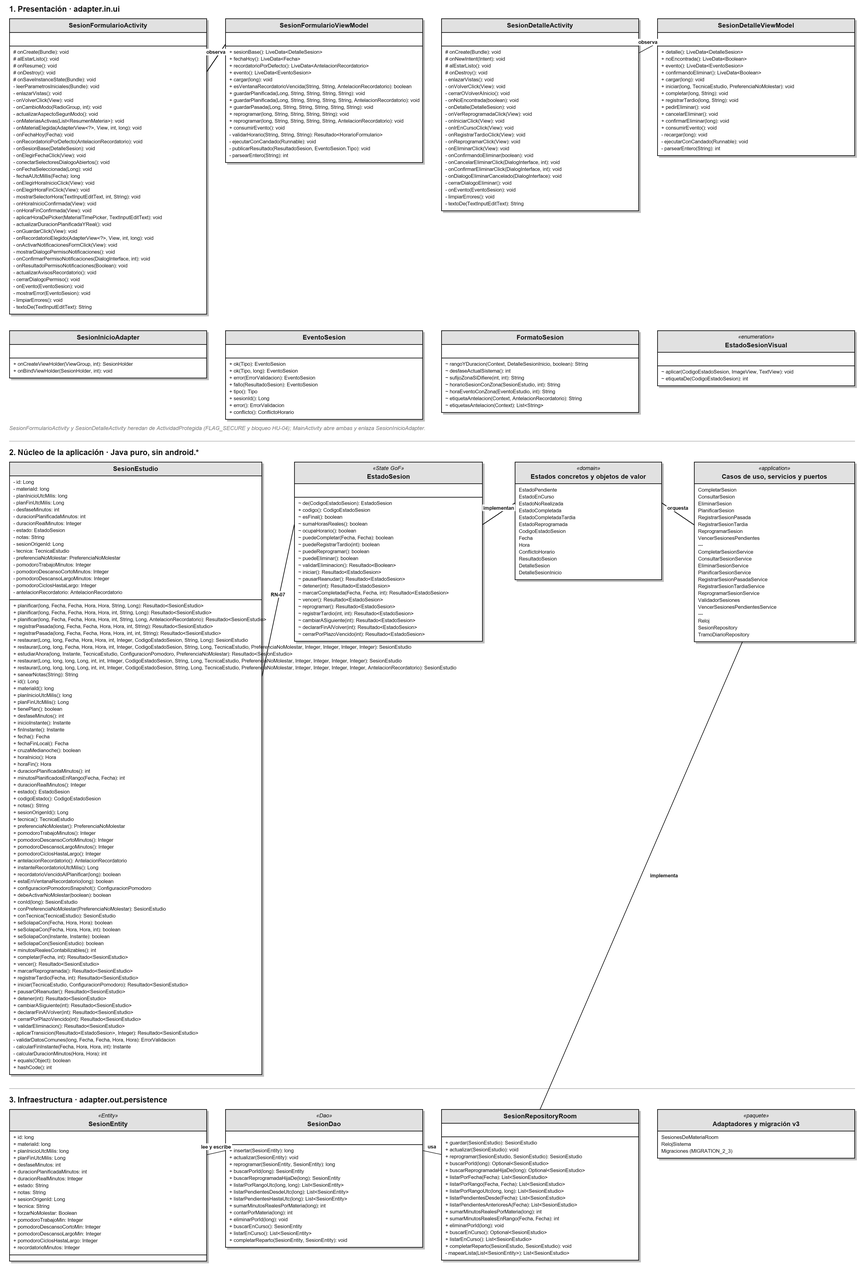
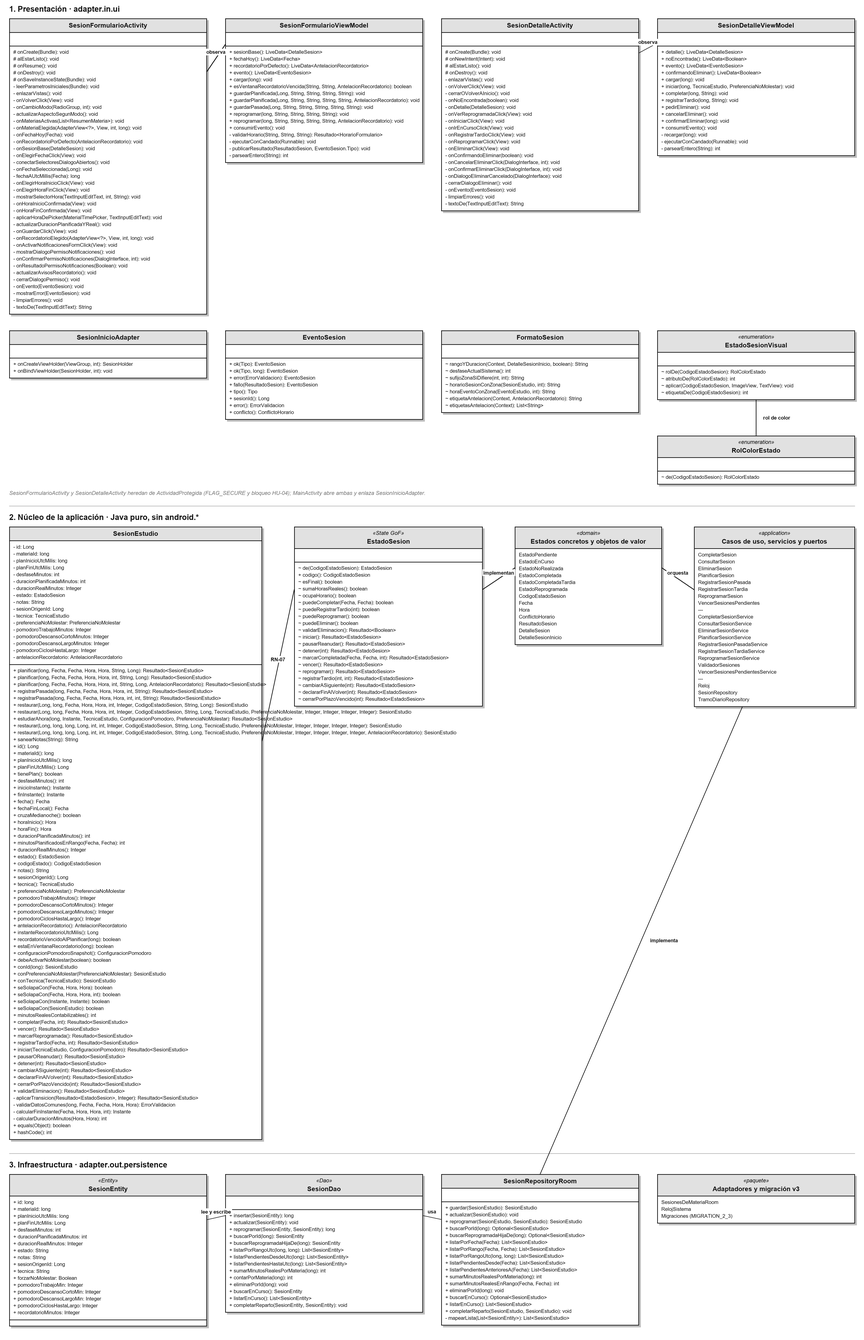
docs: línea gráfica en el capítulo 4, diagramas de clases y bitácora
Subsección «Línea gráfica» con colores, tipografía, reglas y la revisión en el
emulador; diagramas regenerados con AcentoMateria, ColorMateria y
RolColorEstado (lienzos ampliados, el de configuración salía cortado); bitácora
de las sesiones 17 a 20 e informe de ux-check.

diff --git a/docs/build/diagramas_clases.py b/docs/build/diagramas_clases.py
@@ -44,7 +44,9 @@ SEGURIDAD_CONFIG = ["DisponibilidadBloqueoBiometrico"]
 # add-gestion-materias
 PRESENTACION_MATERIAS = ["DestinoPrincipal", "MateriasActivity", "MateriaFormularioActivity", "ListaMateriasViewModel",
                          "MateriaFormularioViewModel", "MateriasAdapter", "FilaMateria", "EventoMateria",
-                         "MensajesDeError", "SelectorColorDialogo", "ColorHex", "GrupoBotones"]
+                         "MensajesDeError", "SelectorColorDialogo", "ColorHex", "GrupoBotones",
+                         # aplicar-linea-grafica-indigo (HU-03): color de materia como acento
+                         "ColorMateria", "AcentoMateria"]
 ENTRADA_MATERIAS = ["ArchivarMateria", "ConsultarMateria", "DesarchivarMateria", "EditarMateria", "EliminarMateria",
                     "ListarMaterias", "RegistrarMateria"]
 SERVICIOS_MATERIAS = ["ArchivarMateriaService", "ConsultarMateriaService", "DesarchivarMateriaService",
@@ -57,7 +59,7 @@ PERSISTENCIA_MATERIAS = ["MateriaDao", "MateriaEntity", "MateriaRepositoryRoom",
 # add-sesiones-estudio
 PRESENTACION_SESIONES = ["EstadoSesionVisual", "EventoSesion", "FormatoSesion", "SesionDetalleActivity",
                          "SesionDetalleViewModel", "SesionFormularioActivity", "SesionFormularioViewModel",
-                         "SesionInicioAdapter"]
+                         "SesionInicioAdapter", "RolColorEstado"]
 ENTRADA_SESIONES = ["CompletarSesion", "ConsultarSesion", "EliminarSesion", "PlanificarSesion",
                     "RegistrarSesionPasada", "RegistrarSesionTardia", "ReprogramarSesion", "VencerSesionesPendientes"]
 SERVICIOS_SESIONES = ["CompletarSesionService", "ConsultarSesionService", "EliminarSesionService",
@@ -158,7 +160,7 @@ def alto(cajas):
 # ---------------------------------------------------------------- clases de add-configuracion-inicial
 def clases_configuracion():
     """Presentación con los métodos de cada clase (onCreate y listeners), núcleo e infraestructura por paquete."""
-    W, H = 3240, 3000
+    W, H = 3240, 4200
     img = Image.new("RGB", (W, H), dg.WHITE)
     d = ImageDraw.Draw(img)
     xs, ancho = [40, 840, 1640, 2440], 760
@@ -225,7 +227,7 @@ def clases_configuracion():
 # ---------------------------------------------------------------- clases de add-gestion-materias
 def clases_materias():
     """Clases de la épica E2: presentación con sus métodos, dominio con campos y métodos, puertos y adaptadores."""
-    W, H = 3240, 3400
+    W, H = 3240, 5600
     img = Image.new("RGB", (W, H), dg.WHITE)
     d = ImageDraw.Draw(img)
     xs, ancho = [40, 840, 1640, 2440], 760
@@ -245,17 +247,23 @@ def clases_materias():
              caja_con_metodos("SelectorColorDialogo", xs[1], y3, ancho),
              caja_con_metodos("ColorHex", xs[2], y3, ancho),
              caja_con_metodos("GrupoBotones", xs[3], y3, ancho)]
-    for c in fila1 + fila2 + fila3:
+    y4f = y3 + alto(fila3) + 70
+    fila4 = [caja_con_metodos("AcentoMateria", xs[0], y4f, ancho),
+             caja_con_metodos("ColorMateria", xs[1], y4f, ancho)]
+    for c in fila1 + fila2 + fila3 + fila4:
         c.draw(d)
     dg.assoc(d, fila1[0].right(0.2), fila1[1].left(0.2), "abre", None, None)
     dg.assoc(d, fila1[2].right(0.2), fila1[3].left(0.2), "comparte la fábrica", None, None)
-    ynota = y3 + alto(fila3) + 24
+    dg.assoc(d, fila4[0].right(0.3), fila4[1].left(0.3), "ajusta el color con", None, None)
+    ynota = y4f + alto(fila4) + 24
     d.text((xs[0], ynota), "MateriasActivity y MateriaFormularioActivity extienden ActividadProtegida; cada una pide su",
            font=dg.font(24, italic=True), fill=dg.GRAY)
     d.text((xs[0], ynota + 36), "ViewModel a FabricaViewModels. Los ViewModel usan los casos de uso (application.port.in). La barra de navegación se enlaza con DestinoPrincipal.",
            font=dg.font(24, italic=True), fill=dg.GRAY)
+    d.text((xs[0], ynota + 72), "AcentoMateria pinta el color de materia solo como barra, punto o chip (HU-03); ColorMateria es Java puro y lo ajusta a ≥ 3:1 contra la superficie del tema.",
+           font=dg.font(24, italic=True), fill=dg.GRAY)
 
-    y4 = ynota + 130
+    y4 = ynota + 166
     d.line([40, y4 - 30, W - 40, y4 - 30], fill=dg.MID, width=3)
     d.text((40, y4), "2. Núcleo de la aplicación · Java puro, sin android.*", font=dg.font(34, True), fill=dg.BLACK)
     y4 += 60
@@ -290,7 +298,7 @@ def clases_materias():
 
 def clases_sesiones():
     """Clases de la épica E3: sesiones de estudio, patrón State GoF en dominio y persistencia Room v3."""
-    W, H = 3760, 5600
+    W, H = 3760, 6400
     img = Image.new("RGB", (W, H), dg.WHITE)
     d = ImageDraw.Draw(img)
     d.text((40, 20), "1. Presentación · adapter.in.ui", font=dg.font(34, True), fill=dg.BLACK)
@@ -305,11 +313,15 @@ def clases_sesiones():
              caja_con_metodos("EventoSesion", xs1[1], y2, w1),
              caja_con_metodos("FormatoSesion", xs1[2], y2, w1),
              caja_con_metodos("EstadoSesionVisual", xs1[3], y2, w1, "enumeration")]
-    for c in fila1 + fila2:
+    y3s = y2 + alto(fila2) + 70
+    fila3s = [caja_con_metodos("RolColorEstado", xs1[3], y3s, w1, "enumeration")]
+    for c in fila1 + fila2 + fila3s:
         c.draw(d)
     dg.assoc(d, fila1[0].right(0.18), fila1[1].left(0.18), "observa", None, None)
     dg.assoc(d, fila1[2].right(0.18), fila1[3].left(0.18), "observa", None, None)
-    ynota = y2 + alto(fila2) + 24
+    dg.assoc(d, fila2[3].bottom(0.5), (fila3s[0].x + fila3s[0].w * 0.5, fila3s[0].y), "rol de color", None, None,
+             name_off=(90, 0))
+    ynota = y3s + alto(fila3s) + 24
     d.text((40, ynota),
            "SesionFormularioActivity y SesionDetalleActivity heredan de ActividadProtegida (FLAG_SECURE y bloqueo HU-04); MainActivity abre ambas y enlaza SesionInicioAdapter.",
            font=dg.font(24, italic=True), fill=dg.GRAY)

diff --git a/docs/auditoria-ia/bitacora.md b/docs/auditoria-ia/bitacora.md
@@ -367,3 +367,54 @@ Decisiones posibles: Aceptado · Modificado · Rechazado · Decidido por el huma
 | 131 | Bloque 6: diagramas, capítulo 4, compilación integral y verificación final | Actualizó `diagramas_clases.py` (`clases_recordatorios()`, `DESCRIPCIONES` v8), `diagramas.py` (dominio conceptual y `W10`), `cotejo_clases.py` y `04-diseno-del-software.md`; ejecutó compilación Debug/Release, unitarias, `lintDebug`, suite instrumentada completa en `SP_API37` y validación OpenSpec | **Pendiente** de revisión humana | Trazabilidad 1:1 código–Room v8–diagramas–documento antes de archivar `add-recordatorios` | `assembleDebug assembleRelease`, `testDebugUnitTest` (`77` suites / `313` unitarias), `lintDebug`, `connectedDebugAndroidTest` (`107/107` en `SP_API37`), `openspec validate --strict`, `cotejo_clases.py` (`271` clases) y `revisar.py` en verde |
 
 **Errores o riesgos registrados en esta sesión:** (1) `NotificadorRecordatoriosInstrumentalTest` falló inicialmente por leer `getActiveNotifications()` inmediatamente después de `cancel()` mientras `NotificationManagerService` procesaba de forma asíncrona vía Binder, resuelto esperando de forma acotada la sincronización del servicio; (2) `SesionRepositoryRoomTest` y `PersistenciaInstrumentadaTest` conservaban aserciones legadas de versión Room `7` y prohibición previa de `SCHEDULE_EXACT_ALARM`, ajustadas a Room `v8` y a la regla `PO-3` (permitir `SCHEDULE_EXACT_ALARM` y prohibir `INTERNET` y `USE_EXACT_ALARM`); (3) `ReceptorAvisosSesion.onReceive()` protege `pending != null` ante `goAsync()` nulo en invocaciones directas desde pruebas instrumentadas; (4) en el diagrama `diagrama_clases_recordatorios.png` inicial, la firma larga de `NotificadorSesion` superaba el ancho de caja y se amplió la columna al regenerar y re-cotejar con `cotejo_clases.py`; (5) en pruebas Espresso que usan `MaterialAutoCompleteTextView` de antelación cuando `POST_NOTIFICATIONS` no está concedido aún, el flujo contempla descartar el diálogo explicativo no bloqueante con «Ahora no». **Pendiente de revisión humana:** probar manualmente en emulador real la llegada de alarmas/notificaciones y el salto a ajustes del sistema (`POST_NOTIFICATIONS` y `SCHEDULE_EXACT_ALARM`), revisar la bitácora y el Word generado antes de archivar con `/openspec-archive-change add-recordatorios` y confirmar `git commit`.
+
+## Sesión 17 — 2026-11-19 · Claude Code (Sonnet 5.5) (planificación del change `aplicar-linea-grafica-indigo`)
+
+**Entradas del estudiante:** aplicar la línea gráfica «Índigo Digital» (lienzo de Claude Design) a toda la app, solo móvil; instalar `ux-kit`; correr `/opsx:explore`, `/opsx:propose`, `ux-discover` y `ux-plan-review`; revisar el plan con `/egm:egm-review` y aplicar el informe con `/openspec-update-change`. Esta sesión **no modificó código de la app**.
+
+| # | Solicitud / tema | Qué hizo la IA | Decisión humana | Justificación | Verificación |
+|---|---|---|---|---|---|
+| 132 | Leer el lienzo de Claude Design y explorar qué layouts y estilos tocar | Leyó las 3 guías y los artboards, y mapeó recursos, estilos explícitos y Java con colores del repositorio (sin escribir código) | Aceptado | El hallazgo clave fue que casi todo vive en `res/values*`, porque los layouts ya usan atributos de tema | Contraste de la guía recalculado con `contrast.mjs` (7,9:1 y 7,56:1); marcar para verificación manual cualquier cifra de la guía |
+| 133 | Instalar `ux-kit` y correr `ux-init` y `ux-discover` | Instaló 6 skills, creó `.ux/` y cargó Índigo Digital en `tokens.json`, `brand.md`, `users.md` y `references.md` | Modificado: botones de 48 dp (la guía decía 52) y `density: comfortable` | Preferencia del Product Owner; 48 dp es el mínimo táctil y coincide con la densidad | `node .ux/scripts/tokens.mjs` (43 pares con `danger` corregido); los datos de usuarios no documentados quedaron como `{{to confirm}}` |
+| 134 | `/opsx:propose` y `ux-plan-review` | Creó proposal, spec delta de `perfil-ajustes` (HU-03), design y tasks; la revisión UX dio 8 hallazgos | Aceptado: los 8, la fuente Plus Jakarta Sans y el bloque horario del calendario dentro del change | No se inventó HU: se modificó HU-03 | `openspec validate --strict` |
+| 135 | `/egm:egm-review` y `/openspec-update-change` con el informe consolidado | Verificó las acusaciones en el código y reescribió design, tasks, proposal, spec y tokens según 5 decisiones del Product Owner (`PO-1`–`PO-5`) | Aceptado el paquete recomendado, con una corrección: en Inicio el botón relleno es «Nueva sesión» y «Estudiar ahora» es el FAB tonal | El artboard y el código ya coincidían; la recomendación inicial estaba al revés | `openspec validate --strict`, enlaces de `design.md` resueltos, `tokens.mjs` sin fallos |
+
+**Errores o riesgos registrados en esta sesión:** (1) la IA propuso en `design.md` la acción primaria de Inicio, de Sesión en curso y de W13 sin haber leído los layouts ni los artboards completos, y estaba al revés en Inicio; (2) validó el contraste de `danger` claro solo contra `surface` (4,83:1) y no contra `bg` (4,43:1) ni `surface-variant` (4,08:1), por lo que `#DC2626` fallaba AA; (3) coló en un change «solo visual» comportamiento nuevo (recientes y buscador del selector, estados de carga y de error, un botón «Empezar»), que se retiró tras la revisión EGM; (4) citó un token inexistente (`indigo_primary`) y propuso iconos para los eventos de `item_evento_estudio.xml`, que no tiene iconos (corregido); (5) un script con heredoc falló a medias y duplicó la entrada 0.2.1 del CHANGELOG de `.ux/standard/` (corregido); (6) el anillo del cronómetro no existe hoy en `activity_sesion_en_curso.xml` y se había descrito como si existiera. **Pendiente de verificación manual:** todas las cifras de contraste que propuso la IA, la licencia OFL real de Plus Jakarta Sans antes de añadir las fuentes, `density: comfortable` en uso real, y los `git commit` (los archivos de `.ux/`, `.claude/skills/`, `.agents/skills/` y `openspec/changes/aplicar-linea-grafica-indigo/` están sin commit).
+
+
+**Línea base antes de `/opsx:apply` (2026-11-19, tarea 1.2):** `./gradlew assembleDebug` correcto; `./gradlew test` con 313 pruebas JVM, 0 fallos; `./gradlew lint` con 50 avisos y 0 errores (los más frecuentes: `UseCompoundDrawables` 10, `ObsoleteSdkInt` 8, `PluralsCandidate` 5, `GradleDependency` 5, `ApplySharedPref` 5), todos previos a este change. `LineaGraficaEspressoTest` (tarea 1.1) pasa en claro y oscuro en el emulador `SP_API37` con la UI sin cambios.
+
+## Sesión 18 — 2026-11-19/20 · Claude Code (Opus 5.5) (implementación de `aplicar-linea-grafica-indigo` con `/opsx:apply`)
+
+**Entradas del estudiante:** `/opsx:apply` del change; reiniciar el emulador tras un corte por falta de memoria; aprobar la actualización de los diagramas de clases; continuar lo que quedó cortado al cerrarse la sesión.
+
+| # | Solicitud / tema | Qué hizo la IA | Decisión humana | Justificación | Verificación |
+|---|---|---|---|---|---|
+| 136 | Línea base, tokens y estilos (tareas 1.x a 3.x) | Prueba de humo `LineaGraficaEspressoTest` antes de tocar la UI; roles `sp_*` claro/oscuro generados desde `tokens.json`; tema Material 3; `Widget.StudyPlan.Button` (48 dp) y variantes; tarjetas sin sombra; Plus Jakarta Sans descargada del repositorio oficial (`tokotype/PlusJakartaSans`, commit `18d1cd2`) con su licencia OFL; `ColorMateria`, `ContrasteTemaTest` y `ReglasEstiloLayoutTest` | Aceptado | Sigue el design.md aprobado | `./gradlew test` (329 JVM), prueba de mutación de `ContrasteTemaTest` y `ReglasEstiloLayoutTest` (fallan al reintroducir un color sin contraste o un hex) |
+| 137 | Pantallas (tareas 4.1 a 4.11) | Inicio, selector, sesión en curso con anillo por fase, W13, W14, W15, Estadísticas, Materias, bloque del calendario y formulario de materia; capturas claro/oscuro en emulador | Aceptado; el Product Owner aprobó reiniciar el emulador y actualizar los diagramas | El change es solo visual (PO-1) | 110 pruebas instrumentadas en verde (`am instrument`), comprobación automática del color del anillo y del borde del bloque del calendario |
+| 138 | Revisión (tareas 5.x) | Lint frente a la línea base, `ux-check`, `cotejo_clases.py` con 3 clases nuevas en los diagramas, capítulo 4 («Línea gráfica»), pruebas a 200 % de fuente, 360 dp y `w600dp` | Pendiente de revisión humana (ver errores y pendientes) | | Lint 50 avisos, 0 nuevos; `cotejo_clases.py` correcto (274 clases); `revisar.py` sin pendientes nuevos; `openspec validate --strict` válido |
+
+**Errores o riesgos registrados en esta sesión:** (1) `values-night/themes.xml` redefinía `Base.Theme.StudyPlan` vacío y habría anulado todo el tema en oscuro; se dejó sin estilo. (2) El diseño nombraba atributos que no existen en `material:1.10.0` (`materialButtonTonalStyle`, `colorSurfaceTint`); se usó el estilo `.Tonal` explícito y `elevationOverlayEnabled=false`. (3) Los botones tonales, los botones alternables y los chips salían en `colorSecondaryContainer` (verde azulado) por defecto de Material; se añadieron estilos y selectores en `colorPrimaryContainer`. (4) **Fallo previo corregido:** `layout-w600dp/activity_sesion_en_curso.xml` no tenía `botonCambiarMateria` y la sesión en curso se caía en pantallas de 600 dp o más (también en el último commit). (5) La IA declaró «43 pares de contraste» cuando son 42 (contó la línea de resumen del script). (6) La IA escribió en el diseño que `docs/build/diagramas_clases.py` no se modificaba, pero `cotejo_clases.py` exige incluir las clases nuevas; se actualizó con aprobación del Product Owner y se ampliaron dos lienzos que cortaban el diagrama. (7) Archivos nuevos no listados en el diseño: `AcentoMateria.java`, 7 selectores en `res/color/`, `fondo_barra_materia.xml`, `fondo_chip_materia.xml`, `ic_reproducir.xml`; cadenas nuevas `sesion_en_curso_progreso_fase`, `reparto_sesion_cruzada`, `reparto_repartir_tiempo`, `reparto_chip_minutos` (es/en). (8) La tarea 4.8 pedía capturar un estado de error que Estadísticas no tiene; no se creó (PO-1). (9) Dos fallos intermitentes de la prueba propia (teclado abierto al elegir «hasta una hora»), corregidos cerrando el teclado; `InicioEspressoTest` y `TecnicasEstudioEspressoTest` fallaron una vez cada uno de forma intermitente y pasaron al repetirlos. (10) El emulador y la suite se detuvieron por falta de memoria del equipo; el primer resultado de esa suite no era válido («device offline»). **Pendiente de verificación manual:** Accessibility Scanner (tarea 5.3); textos cortados a 200 % que vienen de layouts previos (grupo de botones del formulario de materia, título del diálogo W13 limitado a dos líneas por `DialogTitle`, pistas de los campos); «Eliminar» relleno dentro del grupo del formulario (PO-5); excepción de W15 sin acción primaria en `.ux/config.yaml`; todas las cifras de contraste que propuso la IA; `git commit` de los cambios.
+
+## Sesión 19 — 2026-11-20 · Claude Code (Opus 5.5) (revisión del Product Owner en el emulador; `/opsx:update` y `/opsx:apply` del grupo 6)
+
+**Entradas del estudiante:** revisión de la app en el emulador con capturas (nombre largo que rompe Inicio; selector de «Estudiar ahora» sin botón de play ni materia marcada; botones que crecen con textos partidos; acciones repetitivas que no caben en pantalla chica; sin aviso global de sesión en curso y con intento de iniciar otra). Pidió incluir los cinco puntos en este mismo change, cerrar los emuladores e implementar todo.
+
+| # | Solicitud / tema | Qué hizo la IA | Decisión humana | Justificación | Verificación |
+|---|---|---|---|---|---|
+| 139 | `/opsx:update` con la revisión del Product Owner | Spec delta: HU-02 («Sesión en curso visible», «Nombre largo»), HU-47 nuevo archivo en `tecnicas-estudio` («Materia elegida visible», «Ya hay una sesión En curso» con «Volver a la sesión») y HU-03 «Texto ampliado» con altura fija; design.md decisiones 17 a 21; tasks.md grupo 6 | Modificado: el Product Owner incluyó los puntos de flujo (2 y 5) en este change en vez de un change nuevo | Revisa la decisión PO-1 (antes «solo visual») | `openspec validate --strict` válido |
+| 140 | Implementación del grupo 6 | Saludo con `maxLines=2`; botones en una línea con autoajuste 16–8 sp (estilos y `GrupoBotones.ajustarEnUnaLinea`); Guardar, Archivar/Desarchivar y Eliminar como iconos con `contentDescription` y `TooltipCompat`; selector con fila marcada y «▶ Comenzar»; `ResumenInicio.sesionEnCurso()` por el puerto `SesionRepository.buscarEnCurso()`; tarjeta «Sesión en curso» y botón flotante «Volver a la sesión» | Aceptado | Sigue design.md (decisiones 17 a 21) | 331 pruebas JVM en verde; pruebas Espresso nuevas (`tocarUnaMateriaNoIniciaHastaComenzar`, `conSesionEnCursoInicioOfreceVolverYNoPideMateria`, `saludoConNombreLargoNoRompeInicio`) y comprobación automática de que todos los botones con texto miden `button_height` (prueba de mutación: falla con un botón de 60 dp); capturas a 100 % y a 200 % de fuente con 360 dp |
+
+**Errores o riesgos registrados en esta sesión:** (1) La IA había resuelto los textos cortados partiendo palabras con guion y permitiendo dos líneas, lo que hacía crecer los botones contra la regla del Product Owner; se retiró y se cambió por una sola línea con autoajuste. (2) La app incumplía el escenario vigente «Ya hay una sesión En curso» de HU-47: «Estudiar ahora» abría el selector y el servicio respondía `SESION_YA_EN_CURSO`; se corrigió. (3) `MaterialButtonToggleGroup` fija una línea con «…» desde código, por lo que el ajuste de los segmentos tuvo que hacerse en Java. (4) El botón Archivar cambiaba su texto a Desarchivar desde Java y mostraba icono y texto a la vez; se añadió `ic_desarchivar` (archivo no previsto en el diseño) y el cambio de icono, nombre accesible y tooltip. (5) `diagrama_clases_configuracion.png` salía cortado ya en el último commit (lienzo de 3000 px para 3398 px de contenido); se amplió el lienzo. (6) Las pruebas de humo encontraron dos comportamientos correctos de la app que la propia prueba no contemplaba (el diálogo «Al volver» al regresar a Inicio con una sesión en curso, RN-23, y que «Sigo estudiando» abre la sesión); se ajustó la prueba, no la app. (7) El escáner de ux-kit marca como bloqueantes los botones con `layout_width="0dp"` y peso; son falsos positivos (candidato a issue en ux-kit). (8) El sistema se quedó sin memoria y Claude Code detuvo el emulador y la suite instrumentada completa a mitad: pasaron 25 pruebas de 11 clases sin fallos y el resto no llegó a ejecutarse. **Pendiente de verificación:** volver a correr la suite instrumentada completa cuando haya memoria (tarea 6.8); decidir si la revisión del Product Owner con capturas sustituye a Accessibility Scanner (tarea 5.3); los títulos de la barra superior y las pistas flotantes de los campos se cortan con la fuente al 200 % por diseño de Material (una línea); `git commit` de todos los cambios.
+
+## Sesión 20 — 2026-11-20 · Claude Code (Opus 5.5) (`/opsx:archive` de `aplicar-linea-grafica-indigo` y nuevos requisitos de controles de sesión)
+
+**Entradas del estudiante:** nueva revisión en el emulador (pantalla de sesión que distrae, falta un botón para bloquear la pantalla, la notificación solo ofrece «volver», ¿dónde está No molestar?), una referencia de diseño de reproductor de música y la orden de cerrar el change actual con `/opsx:archive` y commits modulares antes de empezar lo nuevo.
+
+| # | Solicitud / tema | Qué hizo la IA | Decisión humana | Justificación | Verificación |
+|---|---|---|---|---|---|
+| 141 | Bloquear pantalla, controles en la notificación y estilo reproductor | Buscó la HU que el estudiante creía haber pedido (specs, changes archivados E7/E8, bitácora y cap. 3) y no la encontró; explicó que No molestar (HU-24) está en Ajustes y en el detalle de la sesión, y que la notificación de salida no tiene acciones. Propuso borradores HU-49 (controles en notificación y pantalla bloqueada), HU-50 (bloquear la pantalla para estudiar) y RN-34, para un change aparte | Modificado: bloquear con el botón de la app cuenta como estudio y salir de la app y que se bloquee sigue siendo salida; notificación estilo reproductor (MediaStyle); botón redondo de 64 dp como excepción en la sesión. Los borradores quedan pendientes de aprobación | La IA no inventa HU (AGENTS.md §4); funcionalidad nueva, fuera de la línea gráfica | Pendiente: `/opsx:propose` del change nuevo |
+| 142 | `/opsx:archive` | Sincronizó HU-02 y HU-03 (`perfil-ajustes`) y HU-47 (`tecnicas-estudio`) en las specs principales; marcó 5.3 como cubierta por la revisión humana; archivó con 6.8 abierta | Aceptado | El Product Owner prefirió cerrar el change antes de la funcionalidad nueva | `openspec validate --specs --strict`: 10 de 10 |
+
+**Errores o riesgos registrados en esta sesión:** (1) El estudiante recordaba haber pedido una HU de bloqueo de pantalla y controles en la notificación que no existe en ningún artefacto; puede haber quedado en una conversación no registrada. (2) La notificación estilo reproductor necesita la dependencia `androidx.media` y un servicio en primer plano mientras dure la sesión, lo que roza AGENTS.md §2 («servicios en primer plano permanentes»); queda por confirmar. (3) Bloquear el teléfono desde la app requiere administrador del dispositivo, con revisión más estricta en Google Play. (4) La versión de depuración comparte `applicationId` con la de producción: las pruebas instrumentadas en el teléfono del estudiante borran los datos de StudyPlan. **Pendiente de verificación:** suite instrumentada completa en el teléfono (tarea 6.8, archivada abierta); aprobación de HU-49, HU-50 y RN-34.
+

diff --git a/docs/documento/capitulos/04-diseno-del-software.md b/docs/documento/capitulos/04-diseno-del-software.md
@@ -136,7 +136,7 @@ Tabla: Pantallas de StudyPlan, lo que se hace en cada una y su trazabilidad {#pa
 |---|---|---|---|
 | Perfil inicial | Pide nombre y meta semanal en el primer uso; el nombre es obligatorio. Permite restaurar una copia. | HU-01, HU-37 | OG |
 | Autenticación | Pide huella o PIN al volver a primer plano, solo si el bloqueo está activo. | HU-04 | OE6 |
-| Inicio | Muestra el saludo, las horas realizadas sobre la meta semanal (editable), el acceso al historial de metas, el botón «Estudiar ahora», la próxima sesión y las sesiones de hoy. | HU-02, HU-25, HU-27, HU-47 | OG |
+| Inicio | Muestra el saludo, el aviso de sesión en curso con «Volver a la sesión», las horas realizadas sobre la meta semanal (editable), el acceso al historial de metas, el botón «Estudiar ahora», la próxima sesión y las sesiones de hoy. | HU-02, HU-25, HU-27, HU-47 | OG |
 | Historial de metas | Lista cronológica inversa de semanas con cumplimiento real, objetivo y marca de estimadas. | HU-27 | OE5 |
 | Calendario | Ofrece las vistas Día, Semana y Mes con el estado de cada sesión; permite crear sesiones. | HU-16 a HU-21 | OE3 |
 | Estadísticas | Muestra horas, comparación semanal, cumplimiento, distribución y concentración. | HU-29 a HU-31, HU-45 | OE5 |
@@ -156,6 +156,33 @@ Tabla: Pantallas de StudyPlan, lo que se hace en cada una y su trazabilidad {#pa
 Nota: Elaboración propia a partir de las especificaciones de OpenSpec.
 
 **Navegación entre pestañas.** Cada pestaña de la barra de navegación es una Activity y la pila de retroceso es siempre `[Inicio, pestaña]`: Atrás desde una pestaña vuelve a Inicio y Atrás desde Inicio sale de la aplicación. En teléfonos la barra va abajo y desde los 600 dp se sustituye por un riel lateral; cada pantalla principal tiene su envoltorio de teléfono y su variante `layout-w600dp`, que comparten el mismo contenido. Solo las pestañas implementadas están habilitadas.
+
+### Línea gráfica
+
+La interfaz sigue la línea gráfica «Índigo Digital», definida por el Product Owner para toda la aplicación en teléfonos (change `aplicar-linea-grafica-indigo`, HU-03, RNF-06 y RNF-07). Sus valores viven en el estándar de diseño del proyecto (`.ux/standard/tokens.json`, versión 0.2.2) y llegan a las pantallas solo a través del tema de Material 3: los layouts nombran atributos del tema (`?attr/colorPrimary`, `?attr/textAppearanceTitleMedium`) y nunca un color o una medida sueltos. Cada rol se declara una vez en `res/values/colors.xml` y se redefine con el mismo nombre en `res/values-night/colors.xml`, de modo que el modo oscuro cambia solo los colores.
+
+Tabla: Roles de color de la línea gráfica en tema claro y oscuro {#linea_grafica_colores anchos=4.2,2.4,2.4,6.5 tam=9}
+
+| Rol (atributo del tema) | Claro | Oscuro | Uso |
+|---|---|---|---|
+| Acción principal (`colorPrimary`) | #4338CA | #818CF8 | Botón principal, anillo de estudio, pestaña activa |
+| Contenedor de acción (`colorPrimaryContainer`) | #EEF2FF | #26294A | Botón tonal, píldora de la barra inferior, opción elegida |
+| Descanso y completada (`colorSecondary`) | #0F766E | #2DD4BF | Descanso Pomodoro, sesión completada |
+| Advertencia (`colorWarning`, propio) | #B45309 | #FBBF24 | Sesión en pausa |
+| Error (`colorError`) | #B91C1C | #F87171 | Sesión no realizada, acciones destructivas |
+| Fondo (`android:colorBackground`) | #F4F5F9 | #0F111A | Fondo de las pantallas |
+| Superficie (`colorSurface`) | #FFFFFF | #1A1D2D | Tarjetas, diálogos y hojas inferiores |
+| Texto (`colorOnSurface`) | #111827 | #F9FAFB | Títulos, cronómetro, nombres de materia |
+| Texto secundario (`colorOnSurfaceVariant`) | #4B5563 | #9CA3AF | Fechas, etiquetas y subtítulos |
+| Borde de tarjeta (`colorOutlineVariant`) | #E0E7FF | #2D324D | Borde de 1 dp de las tarjetas |
+
+Nota: Elaboración propia. Los 42 pares de contraste del estándar (texto ≥ 4,5:1 y bordes ≥ 3:1) se comprueban con `ContrasteTemaTest` y con `node .ux/scripts/tokens.mjs`.
+
+**Tipografía y forma.** Los títulos, los números y los botones usan Plus Jakarta Sans (licencia SIL OFL 1.1, archivos en `res/font/` y licencia en `docs/licencias/`); el texto corrido usa Roboto, que viene con Android. Como el proyecto admite Android 7.0 (minSdk 24), cada peso es un archivo de fuente propio en lugar de `android:textFontWeight`. La escala va de 12 sp (etiquetas) a 56 sp (cronómetro). Las tarjetas no tienen sombra y se separan del fondo por tono y por un borde de 1 dp; los radios son de 20 dp en tarjetas, 14 dp en botones y 8 dp en chips.
+
+**Reglas de uso.** Todos los botones miden 48 dp de alto (un único valor, `@dimen/button_height`) y nunca cambian de altura: su etiqueta va en una sola línea y, si no cabe (por ejemplo con la fuente más grande del sistema), la letra se reduce de 16 a 8 sp; en el formulario de materia, Guardar, Archivar y Eliminar se muestran como iconos con su nombre accesible y un tooltip. Su importancia se marca solo por estilo: relleno para la acción principal, tonal, contorno o texto para las demás, y contorno rojo para lo destructivo. El color libre que el estudiante elige para cada materia aparece solo como acento (barra de 4 dp, punto de 10 dp o chip al 15 %) y nunca como fondo de tarjeta o botón; `ColorMateria` lo ajusta para que contraste al menos 3:1 con la superficie en ambos temas. En la sesión en curso, el anillo y la etiqueta de estado cambian de color con la fase (índigo al estudiar, ámbar en pausa y verde azulado en descanso), siempre acompañados de su etiqueta de texto (RNF-06).
+
+**Revisión en el emulador.** El Product Owner revisó las pantallas en el emulador y pidió cuatro ajustes que se incorporaron al mismo change. El saludo de Inicio ocupa como máximo dos líneas y termina en «…», sin recortar el nombre guardado (HU-02). En «Estudiar ahora», tocar una materia solo la marca y la sesión empieza con el botón «▶ Comenzar» (HU-47). Si hay una sesión En curso, Inicio muestra un aviso con «Volver a la sesión» y el botón flotante abre esa sesión en lugar de pedir otra materia; esto además corrige un incumplimiento del escenario de HU-47 que ya exigía no crear una segunda sesión (HU-02, HU-47). La sesión En curso llega a Inicio por el caso de uso del resumen (`ObtenerResumenInicio`), a través del puerto `SesionRepository`, sin que la interfaz consulte la base de datos.
 
 ### Wireframes y Mockups
 

diff --git a/.ux/reports/2026-11-19-ux-check-studyplan.md b/.ux/reports/2026-11-19-ux-check-studyplan.md
@@ -1,0 +1,44 @@
+# ux-check — studyplan (change aplicar-linea-grafica-indigo) · 2026-11-19
+
+Estándar: `.ux/standard` 0.2.2 (`ux-kit.status: defined`) · plataforma: android, `input: touch`, `density: comfortable`.
+Alcance: rutas explícitas (`res/layout`, `res/layout-w600dp`, `res/values*`, `res/color`, `res/drawable`, `adapter/in/ui`), porque el árbol de trabajo ya tenía cambios ajenos antes del change. 156 archivos escaneados.
+
+## Veredicto
+✅ Sin bloqueantes abiertos (1 bloqueante real encontrado y **corregido** en esta revisión; 1 candidato del escáner descartado como falso positivo).
+
+| Severidad | Encontrados | Corregidos | Abiertos |
+|---|---|---|---|
+| blocker | 1 (+1 falso positivo) | 1 | 0 |
+| major | 1 | 0 | 1 (decisión del PO) |
+| suggestion | 2 | 0 | 2 |
+
+## Hallazgos
+1. **blocker · `fitts-spacing` · Fitts — corregido.** Acciones opuestas con menos de 16 dp: «Pausar» / «Detener» (12 dp) y «Sigo» / «Terminé» (8 dp) en `activity_sesion_en_curso.xml` (móvil y `w600dp`), y «Eliminar sesión» a 8 dp de «Reprogramar» en `activity_sesion_detalle.xml` (móvil y `w600dp`). Arreglo: `flow_horizontalGap`/`flow_verticalGap` = 16 dp y `layout_marginTop` = 16 dp.
+2. **descartado · `touch-target-platform` (AND-TARGET)** — `contenido_inicio.xml:162`: el escáner lee `layout_width="0dp"` (ancho por restricciones de `ConstraintLayout`) como tamaño real. La tarjeta ocupa todo el ancho y mide ≥ 72 dp. Candidato a issue de ux-kit.
+3. **major · `primary-action-competition` · Hick — decisión del PO.** `activity_sesion_detalle.xml` (W15) no tiene acción primaria: sus acciones de estado son tonales y del mismo peso. Es lo que aprobó el Product Owner (design.md, decisión 7: pantalla de consulta). Propuesta: registrarlo en `config.yaml → exceptions` si el equipo lo confirma.
+4. **suggestion · `type-levels` · Estética-usabilidad.** Inicio usa 6 tamaños (barra 20, saludo 24, horas 32, títulos/botones 16, cuerpo 14, etiquetas 12); el máximo recomendado es 4. Opción: barra superior a 16 o 24 sp para unificar.
+5. **suggestion · `aesthetic-consistency`.** En el formulario de materia, «Eliminar» va relleno dentro del grupo de botones unidos (se conservó `GrupoBotones`, PO-5), mientras que en el resto de la app lo destructivo va en contorno rojo.
+
+## Drift
+- `token-drift`: ninguno. Colores, radios y alturas salen de `@color/sp_*`, `@dimen/*` y atributos del tema.
+- `literal-design-values`: ninguno en atributos reales; los hex del inventario (`#1565c0`×3, `#2e7d32`×2, `#1e88e5`, `#ffffff`) son `tools:` de vista previa y `#3ddc84` es el launcher (fuera de alcance).
+- Deriva inversa: ninguna.
+
+## Checklist ux-laws (pantallas del change)
+| Regla | Inicio | Selector | En curso | W13 | W14 | W15 | Estadísticas | Materias | Calendario |
+|---|---|---|---|---|---|---|---|---|---|
+| Fitts · objetivos ≥ 48 dp | ✅ | ✅ | ✅ | ✅ | ✅ | ✅ | ✅ | ✅ | ✅ (excepción §6.2 de bloques) |
+| Fitts · zona alcanzable | ❔ | ✅ | ✅ | ✅ | ✅ | ❔ | ❔ | ✅ | ❔ |
+| Fitts · separación (≥ 16 dp opuestas) | ✅ | ✅ | ✅ (corregido) | ✅ | ✅ | ✅ (corregido) | ✅ | ✅ | ✅ |
+| Hick · ≤ 7 opciones | ✅ | ✅ | ✅ | ✅ | ✅ | ✅ | ✅ | ✅ | ✅ |
+| Hick · CTA destacada | ✅ | ✅ | ✅ | ✅ | ✅ | ⚠ (decisión PO) | ✅ | ✅ | ✅ |
+| Jakob · convenciones | ✅ | ✅ | ✅ | ✅ | ✅ | ✅ | ✅ | ✅ | ✅ |
+| Miller · listas > 7 | ✅ | ❔ (sin agrupar con muchas materias; fuera de alcance PO-1) | ✅ | ✅ | ✅ | ✅ | ✅ | ✅ | ✅ |
+| Estética · ≤ 4 tamaños | ⚠ | ✅ | ✅ | ✅ | ✅ | ✅ | ✅ | ✅ | ✅ |
+| Estética · paleta/radios coherentes | ✅ | ✅ | ✅ | ✅ | ✅ | ✅ | ✅ | ⚠ (grupo formulario) | ✅ |
+| Densidad (`comfortable`) | ✅ | ✅ | ✅ | ✅ | ✅ | ✅ | ✅ | ✅ | ✅ |
+
+❔ = no verificable desde el código (zona de alcance según el contenido desplazable).
+
+## Coherencia entre pantallas
+Color de materia: barra de 4 dp en tarjetas (Inicio, Materias, calendario, W14), punto de 10 dp junto a un nombre (selector, en curso, detalle, estadísticas, reportes) y chip al 15 % (W14), siempre ajustado con `ColorMateria` (≥ 3:1). Botones alternables, tonales, chips y barra inferior usan `colorPrimaryContainer` en toda la app.
